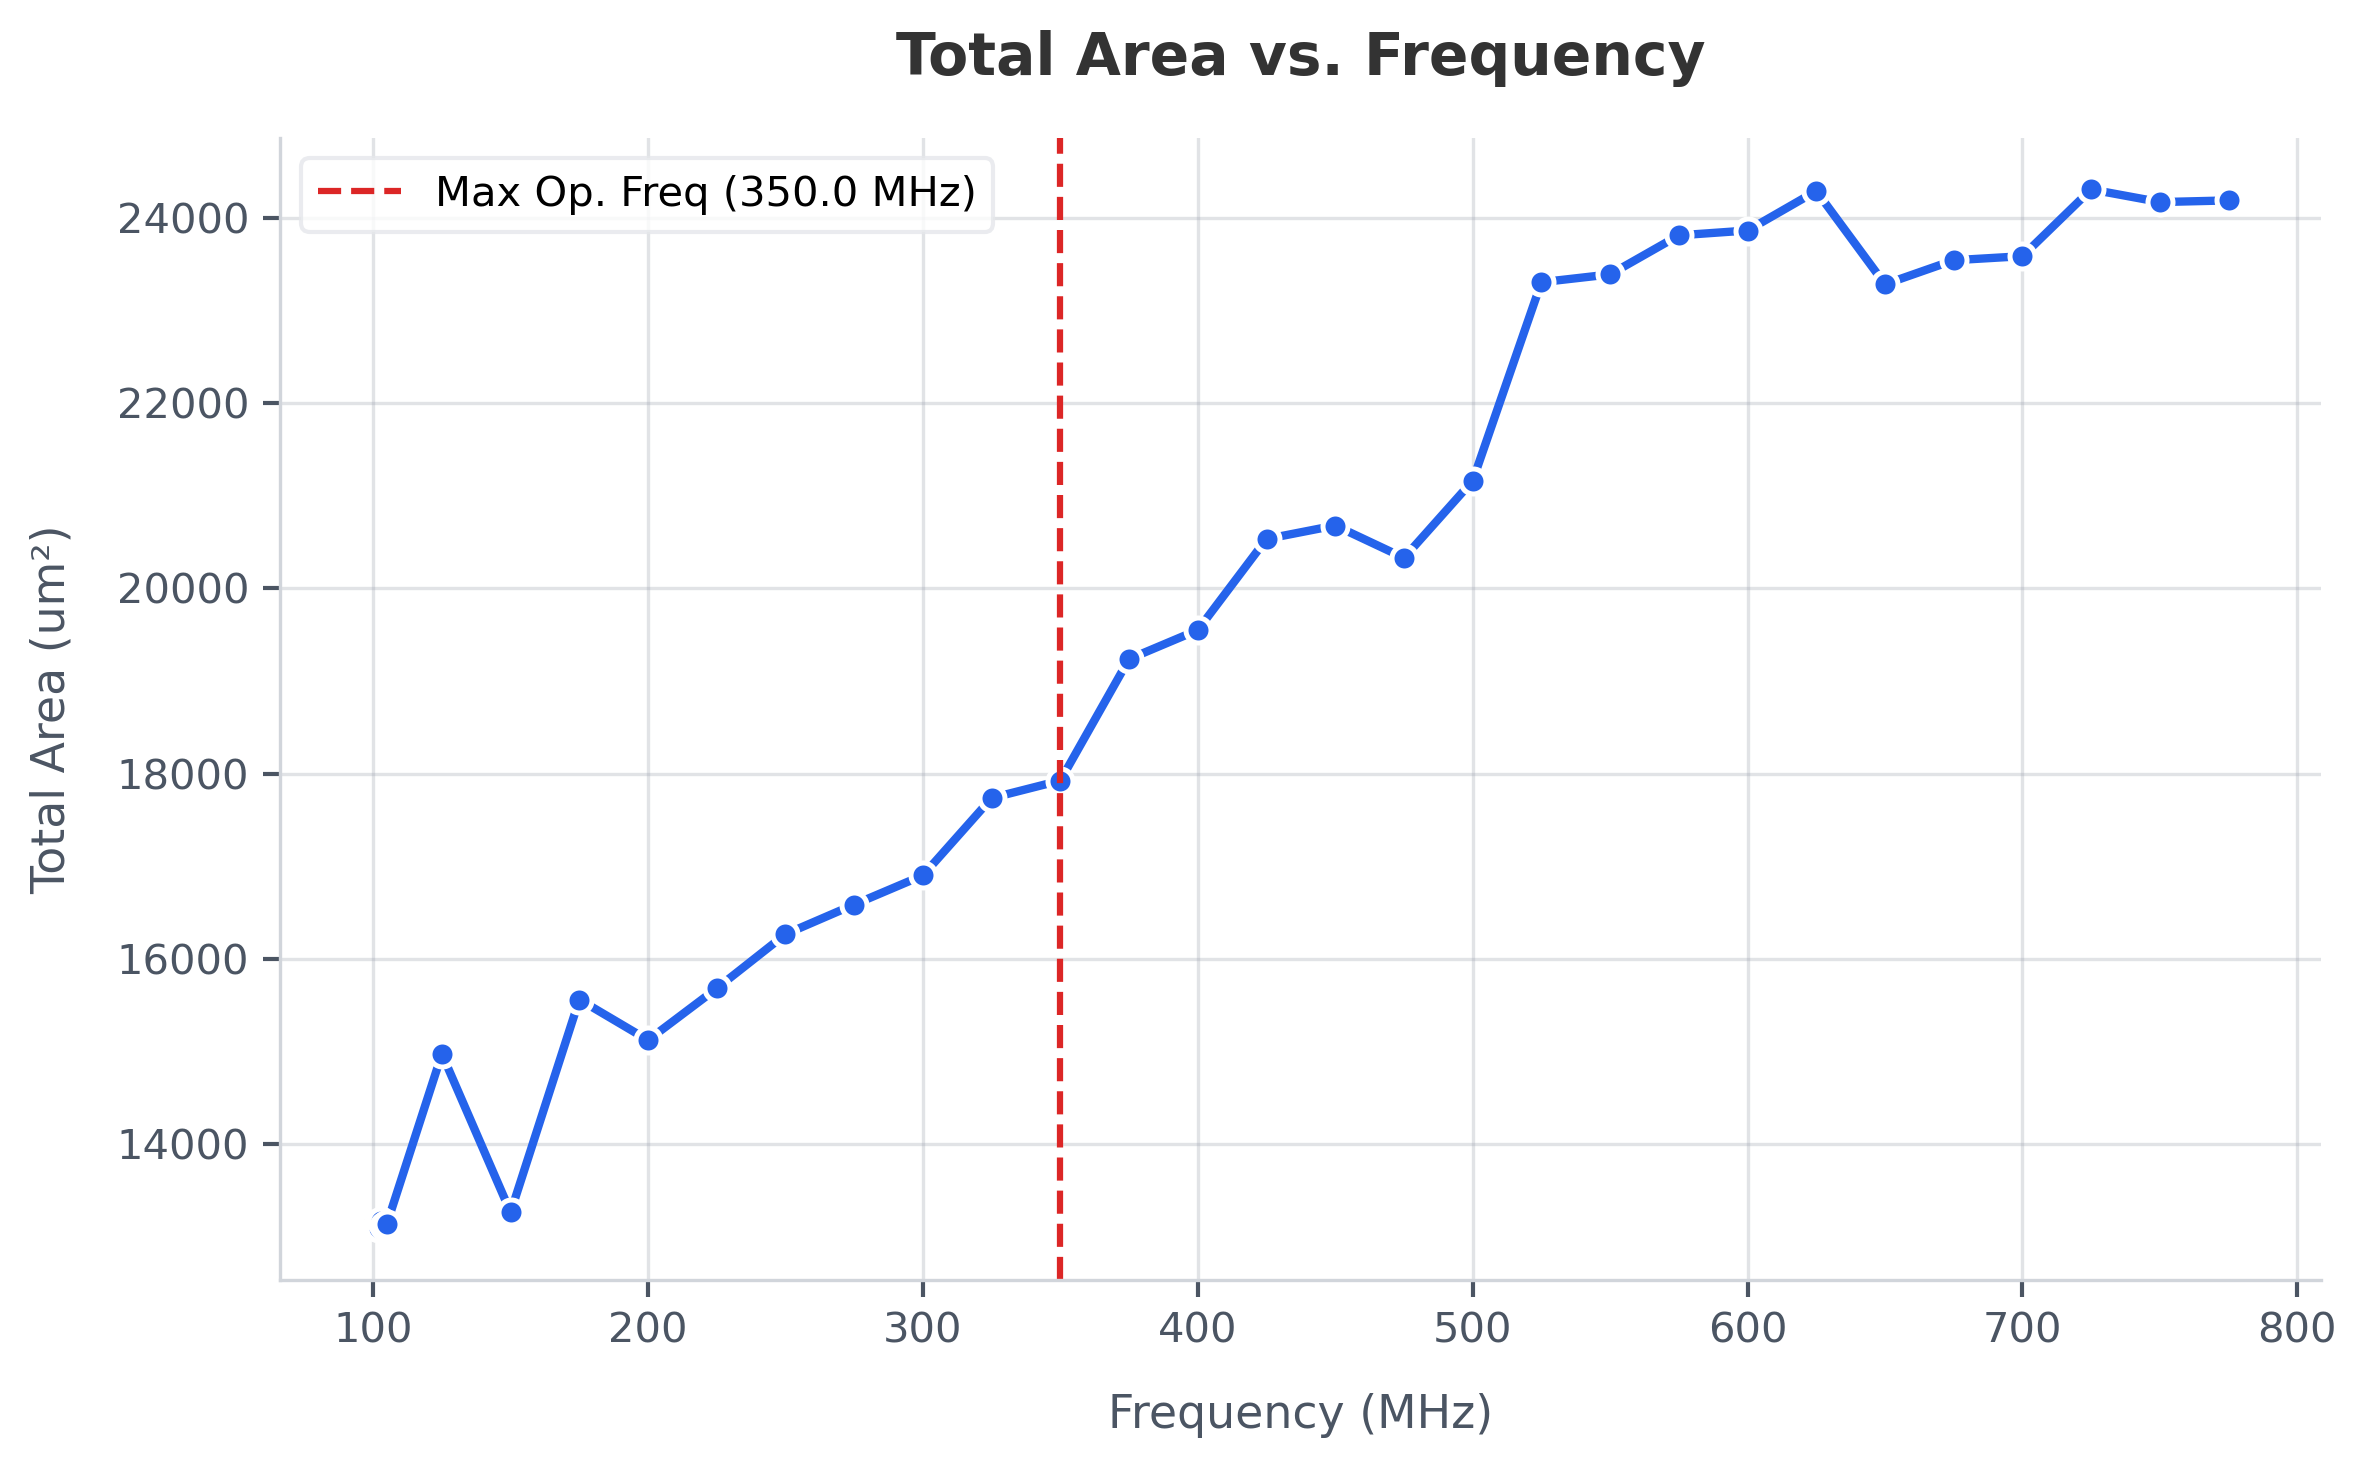
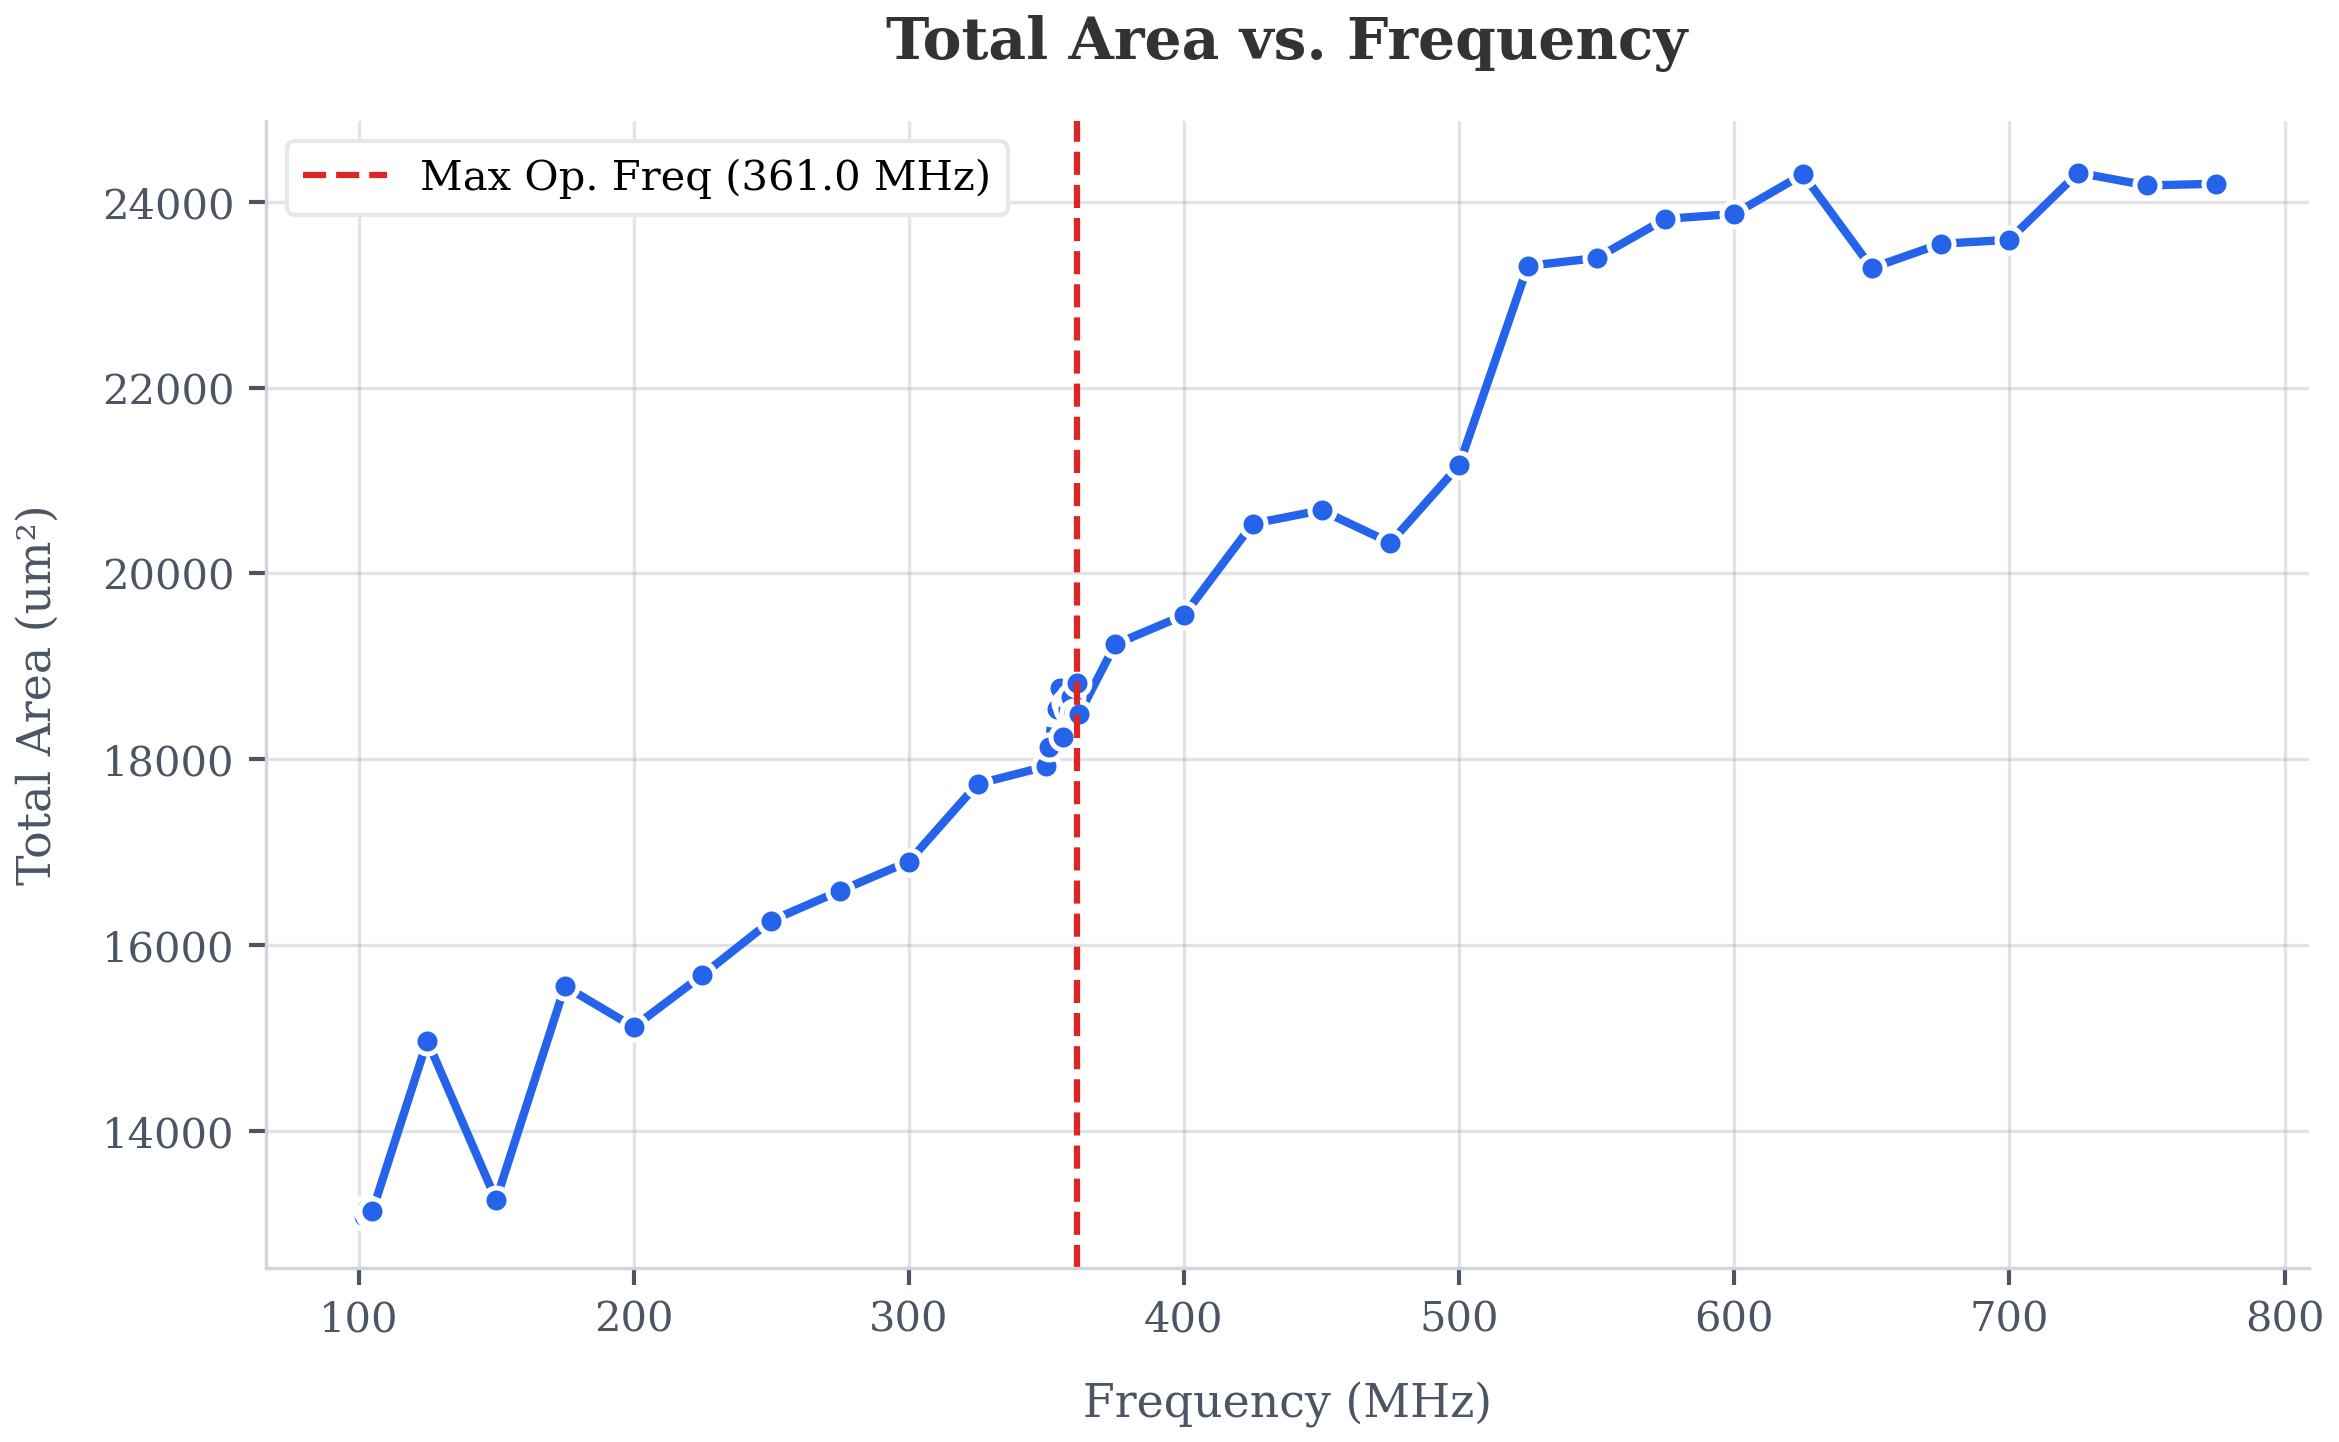
changes extractor script path and makes updates graphs

diff --git a/helper_scripts/report_extractor.py b/helper_scripts/report_extractor.py
@@ -5,7 +5,7 @@ import csv
 # --- Configuration ---
 design_name = "multiplier32FP"
 # Caminho absoluto pra não bugar
-reports_base_dir = "/home/ufsm00291/ufsm00291-lima202020189/projetos/multiplier32FP/multiplier32FP/backend/synthesis/reports"
+reports_base_dir = "../backend/synthesis/reports"
 output_csv = "CSVs/TL_results.csv"
 
 # Regexes